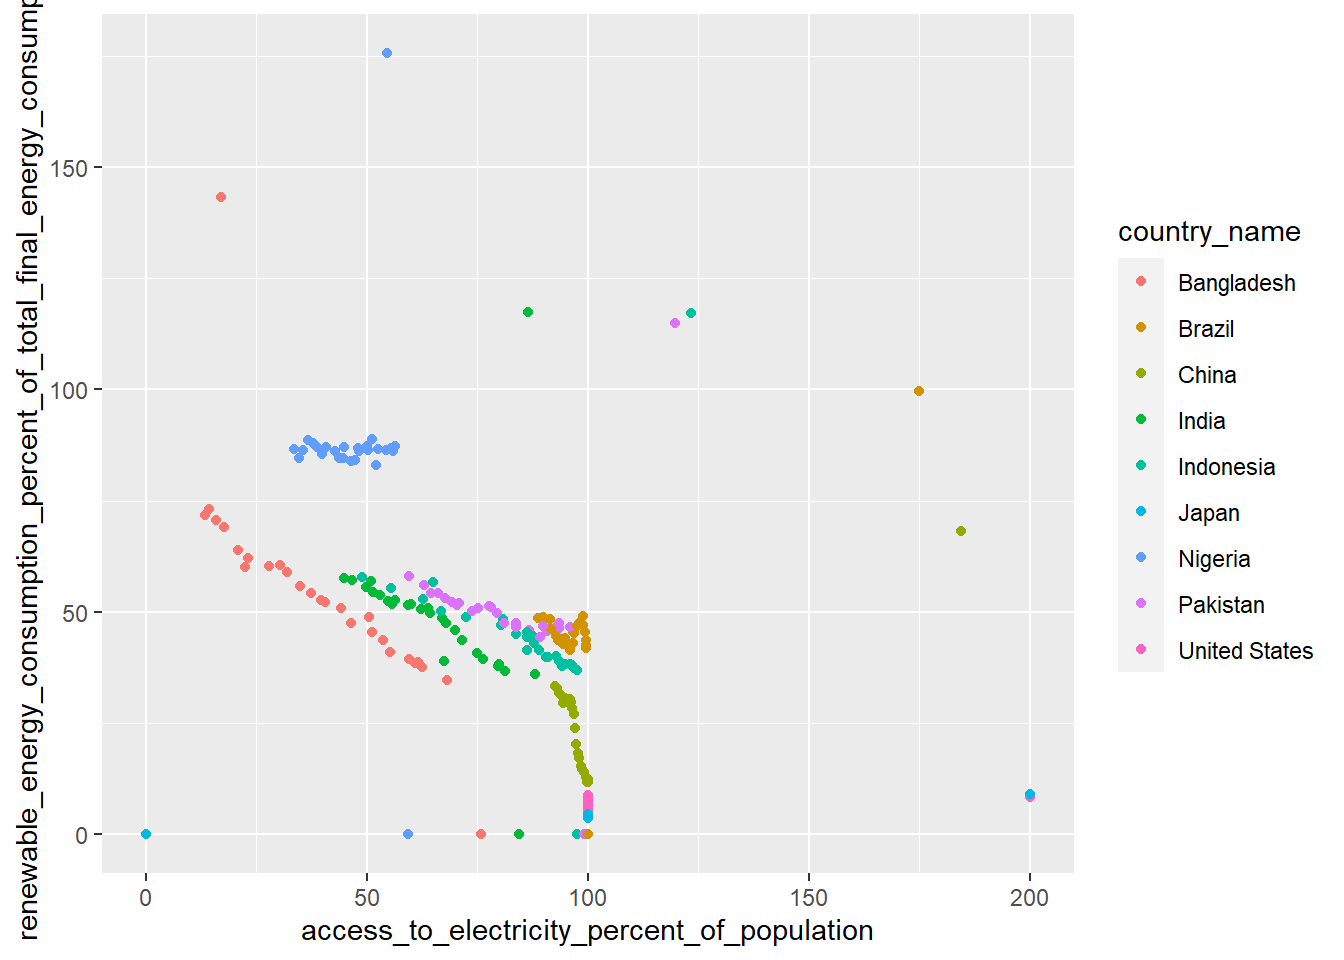
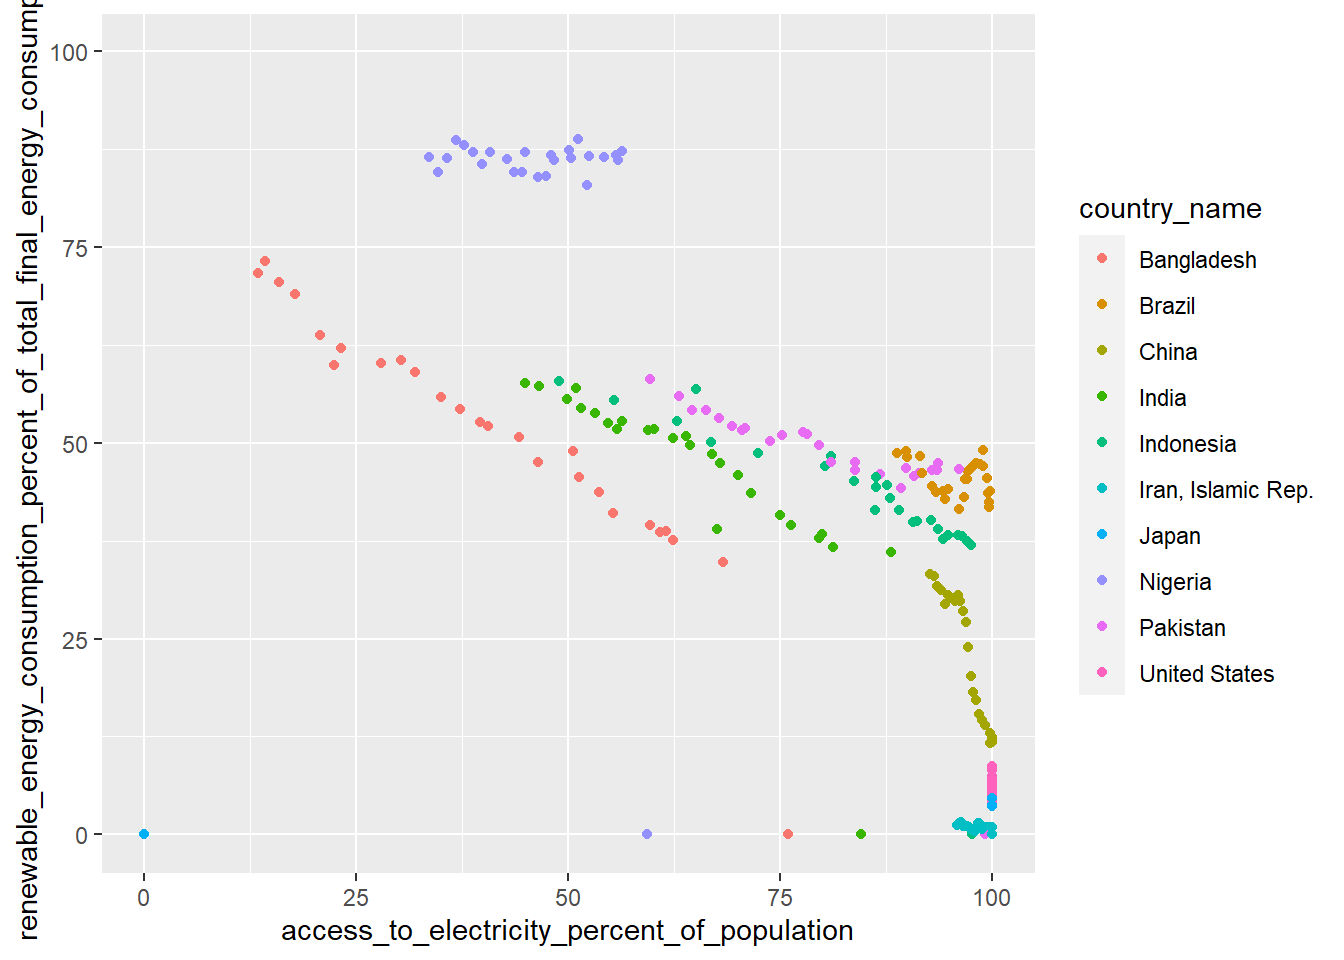
4

diff --git a/content/post/2021-06-16-assignment-a05-exploratory-data-analysis-2/index.html b/content/post/2021-06-16-assignment-a05-exploratory-data-analysis-2/index.html
@@ -86,10 +86,22 @@ names(My_data)</p>
 ## [51] &quot;time_required_to_get_electricity_days&quot;                                                 
 ## [52] &quot;total_natural_resources_rents_percent_of_gdp&quot;                                          
 ## [53] &quot;value_lost_due_to_electrical_outages_percent_of_sales_for_affected_firms&quot;</code></pre>
+<p>replace_with_na($access_to_electricity_percent_of_population &gt; 100, access_to_electricity_percent_of_population &lt;- 20)</p>
 <pre class="r"><code>My_data2 %&gt;%
   ggplot(aes(access_to_electricity_percent_of_population, renewable_energy_consumption_percent_of_total_final_energy_consumption, color=country_name))+ geom_point()</code></pre>
+<pre><code>## Warning: Removed 10 rows containing missing values (geom_point).</code></pre>
 <p><img src="{{< blogdown/postref >}}index_files/figure-html/unnamed-chunk-3-1.png" width="672" /></p>
 <pre class="r"><code>#+geom_smooth(method = &quot;lm&quot;)</code></pre>
+<pre class="r"><code>My_data2%&gt;%
+  
+mutate(pump_price_for_diesel_fuel_us_per_liter=replace(pump_price_for_diesel_fuel_us_per_liter, pump_price_for_diesel_fuel_us_per_liter == 00, NA)) %&gt;% 
+  ggplot(aes(year, pump_price_for_diesel_fuel_us_per_liter, color=country_name))+ geom_point()+geom_smooth(method = &quot;lm&quot;,se=FALSE)+
+  xlim(1990, 2010)+ylim(0, 1.1)</code></pre>
+<pre><code>## `geom_smooth()` using formula &#39;y ~ x&#39;</code></pre>
+<pre><code>## Warning: Removed 490 rows containing non-finite values (stat_smooth).</code></pre>
+<pre><code>## Warning: Removed 490 rows containing missing values (geom_point).</code></pre>
+<pre><code>## Warning: Removed 9 rows containing missing values (geom_smooth).</code></pre>
+<p><img src="{{< blogdown/postref >}}index_files/figure-html/unnamed-chunk-4-1.png" width="672" /></p>
 <p>-Number of variables: 522</p>
 <p>-Number of observations: 53</p>
 </div>
